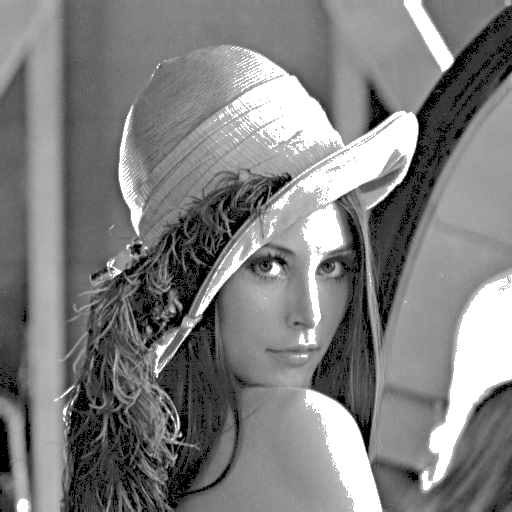
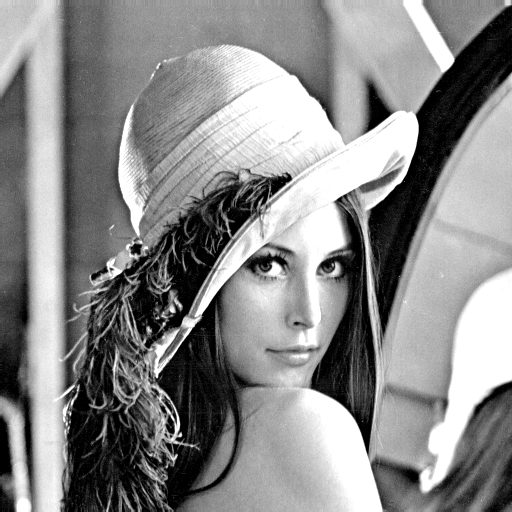
modified: task 2a (completed)

diff --git a/E04/code/task_2a.py b/E04/code/task_2a.py
@@ -31,23 +31,37 @@ Performing greyscale transformation on input image
 '''
 def transform_greyscale(image):
     '''Computing pixel value above darkest and below brightest percentile'''
-    percentile_dark = numpy.percentile(image, 5)
-    percentile_bright = numpy.percentile(image, 90)
-    print "Pixel value > 5th percentile:  ", percentile_dark
-    print "Pixel value < 90th percentile: ", percentile_bright
+    old_min = image.min()
+    old_max = image.max()
+    new_min = numpy.percentile(image, 5)
+    new_max = numpy.percentile(image, 90)
+    
+    print "Minimum pixel value:           ", old_min
+    print "Maximum pixel value:           ", old_max
+    print "Pixel value > 5th percentile:  ", new_min
+    print "Pixel value < 90th percentile: ", new_max
     
     '''Applying greyscale transformation to image'''
     (rows, cols) = image.shape
     
+    scaling_factor = 255 / (new_max - new_min)
+    
     for i in range(rows):
         for j in range(cols):
-            
-            if image[i,j] <= percentile_dark:
-                image[i,j] = 0 
-                
-            if image[i,j] >= percentile_bright:
-                image[i,j] = 255
-       
+            new_value_1 = image[i, j] - new_min
+            if new_value_1 >= 0:
+                image[i, j] = new_value_1
+            else:
+                image[i, j] = 0
+            new_value_2 = image[i, j] * scaling_factor
+            if new_value_2 <= 255:
+                image[i, j] = new_value_2
+            else:
+                image[i, j] = 255
+    
+    print "min: ", image.min()
+    print "max: ", image.max()
+    print image
     return image         
  
 if __name__ == "__main__":
@@ -57,7 +71,8 @@ if __name__ == "__main__":
         original = misc.imread(sys.argv[1], flatten=True)
     else:
         original = misc.lena()
-        
+    
+    
     show(original)
     #misc.imsave('original.png', original)
     
